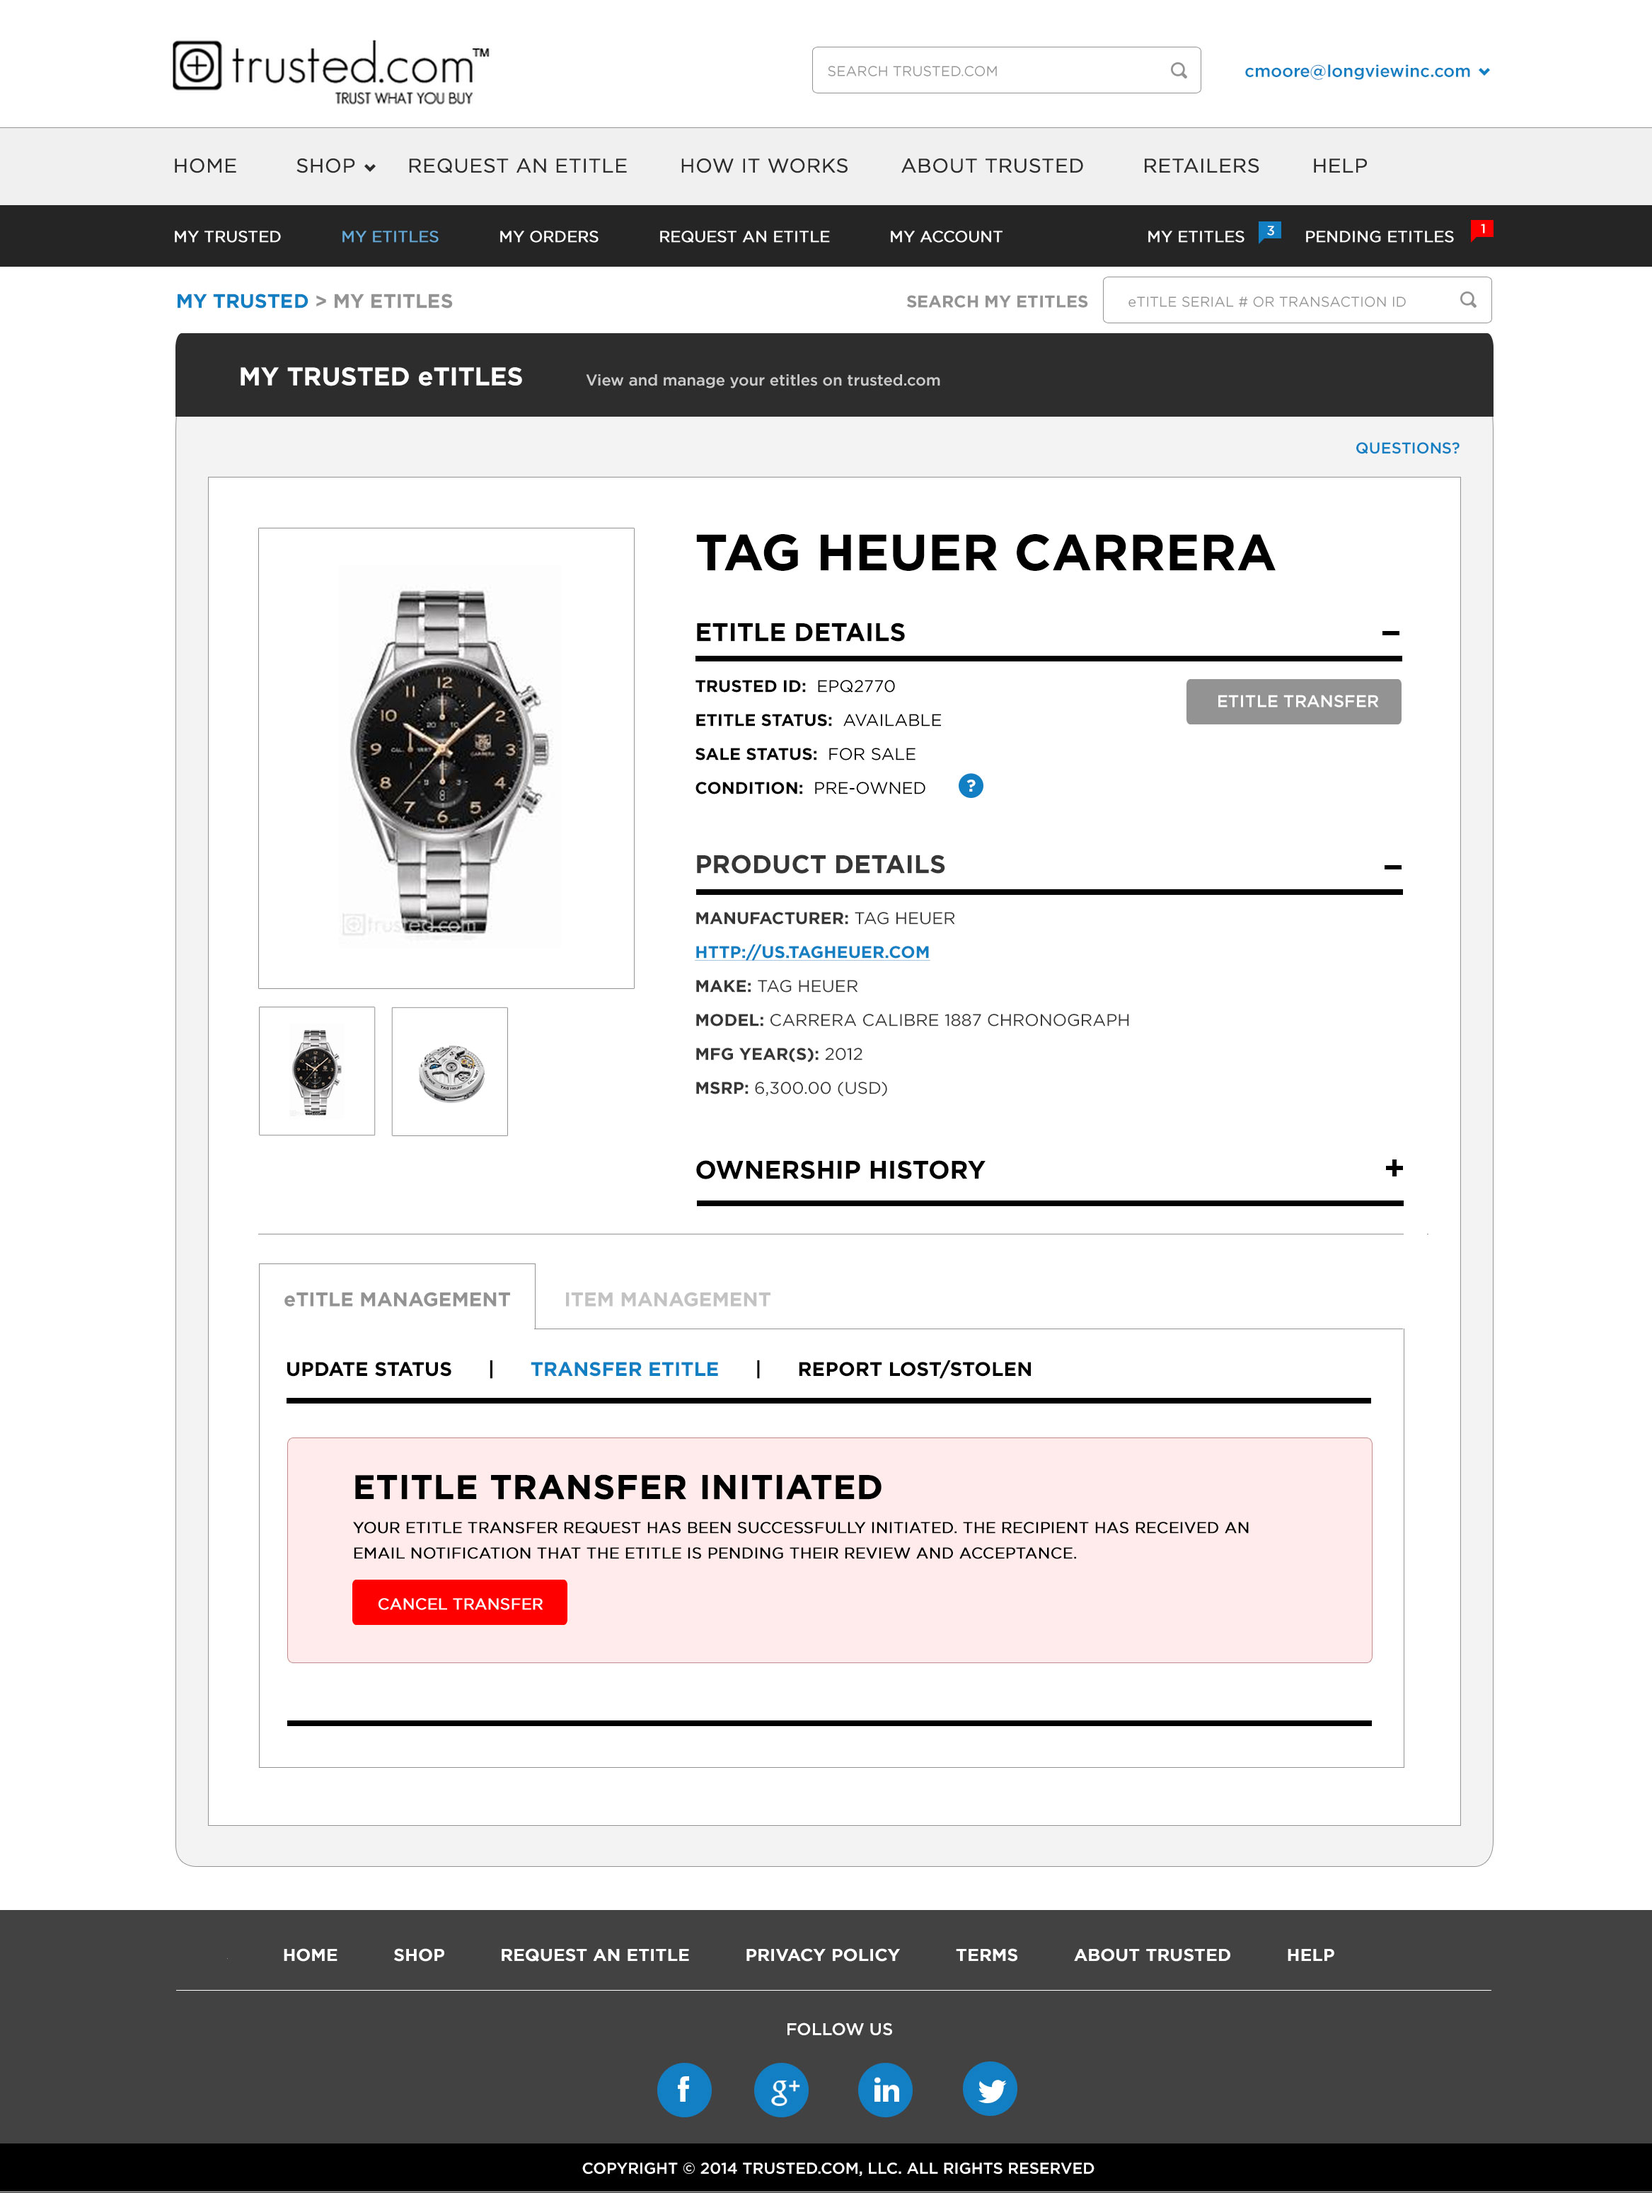
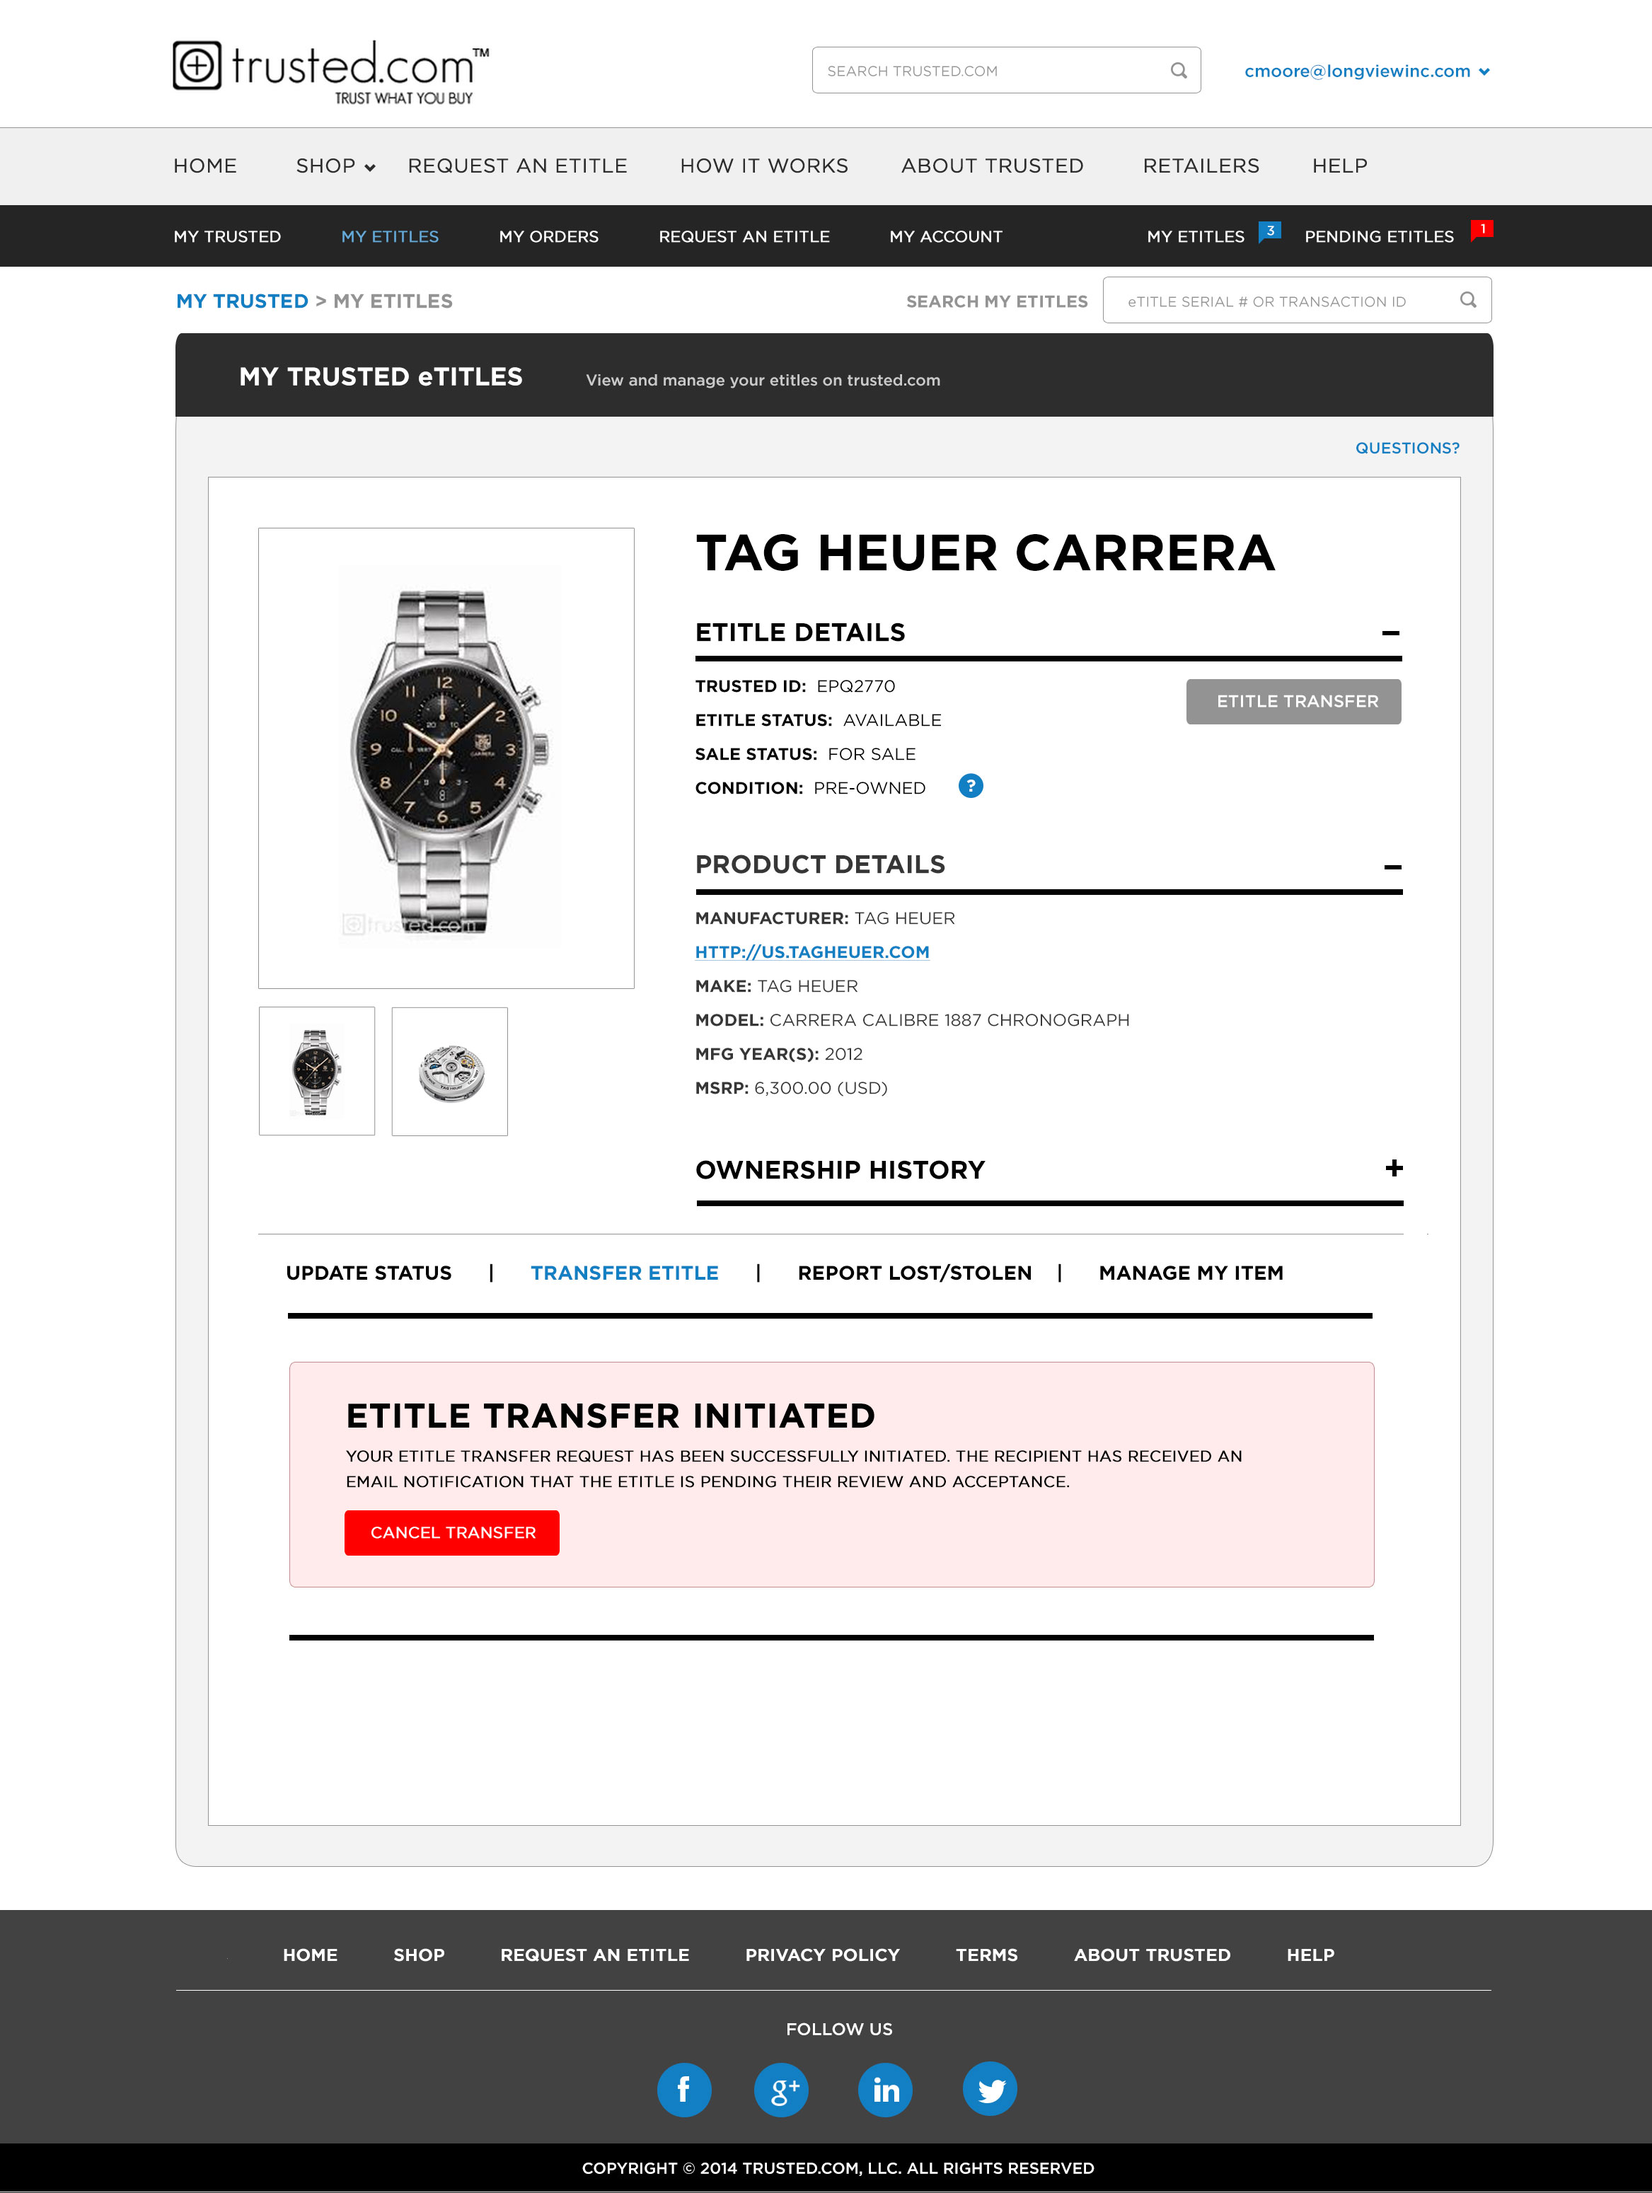
Updates

diff --git a/etitle-detail.html b/etitle-detail.html
@@ -16,15 +16,15 @@ img {
 </style>
 <body>
 
-<img src="images/trusted-etitle-detail.jpg" alt="" width="2335" height="3100" usemap="#Map"/>
+<img src="images/trusted-etitle-alt.jpg" alt="" width="2335" height="3434" usemap="#Map"/>
 <map name="Map">
-  <area shape="rect" coords="616,150,717,178" href="account-profile.html">
-  <area shape="rect" coords="115,149,204,179" href="index.html">
-  <area shape="rect" coords="229,149,315,178" href="my-etitles.html">
-  <area shape="rect" coords="345,152,434,180" href="my-orders.html"> 
-  <area shape="rect" coords="460,152,592,180" href="request.html">
-  <area shape="rect" coords="837,476,1002,516" href="etitle-transfer.html">
-  <area shape="rect" coords="373,955,515,979" href="etitle-transfer.html">
+  <area shape="rect" coords="619,195,720,223" href="account-profile.html">
+  <area shape="rect" coords="463,197,595,225" href="request.html">
+  <area shape="rect" coords="348,197,437,225" href="my-orders.html">
+  <area shape="rect" coords="232,194,318,223" href="my-etitles.html"> 
+  <area shape="rect" coords="118,194,207,224" href="index.html">
+  <area shape="rect" coords="833,644,998,684" href="etitle-transfer.html">
+  <area shape="rect" coords="352,1065,494,1089" href="etitle-transfer.html">
 </map>
 </body>
 </html>

diff --git a/etitle-transfer.html b/etitle-transfer.html
@@ -24,7 +24,7 @@ img {
   <area shape="rect" coords="346,152,435,180" href="my-orders.html"> 
   <area shape="rect" coords="458,152,590,180" href="request.html">
   <area shape="rect" coords="830,475,992,517" href="etitle-transfer.html">
-  <area shape="rect" coords="809,1151,976,1192" href="etitle-transfer-post.html">
+  <area shape="rect" coords="811,1114,978,1155" href="etitle-transfer-post.html">
   <area shape="rect" coords="108,1205,109,1206" href="#">
 </map>
 </body>
